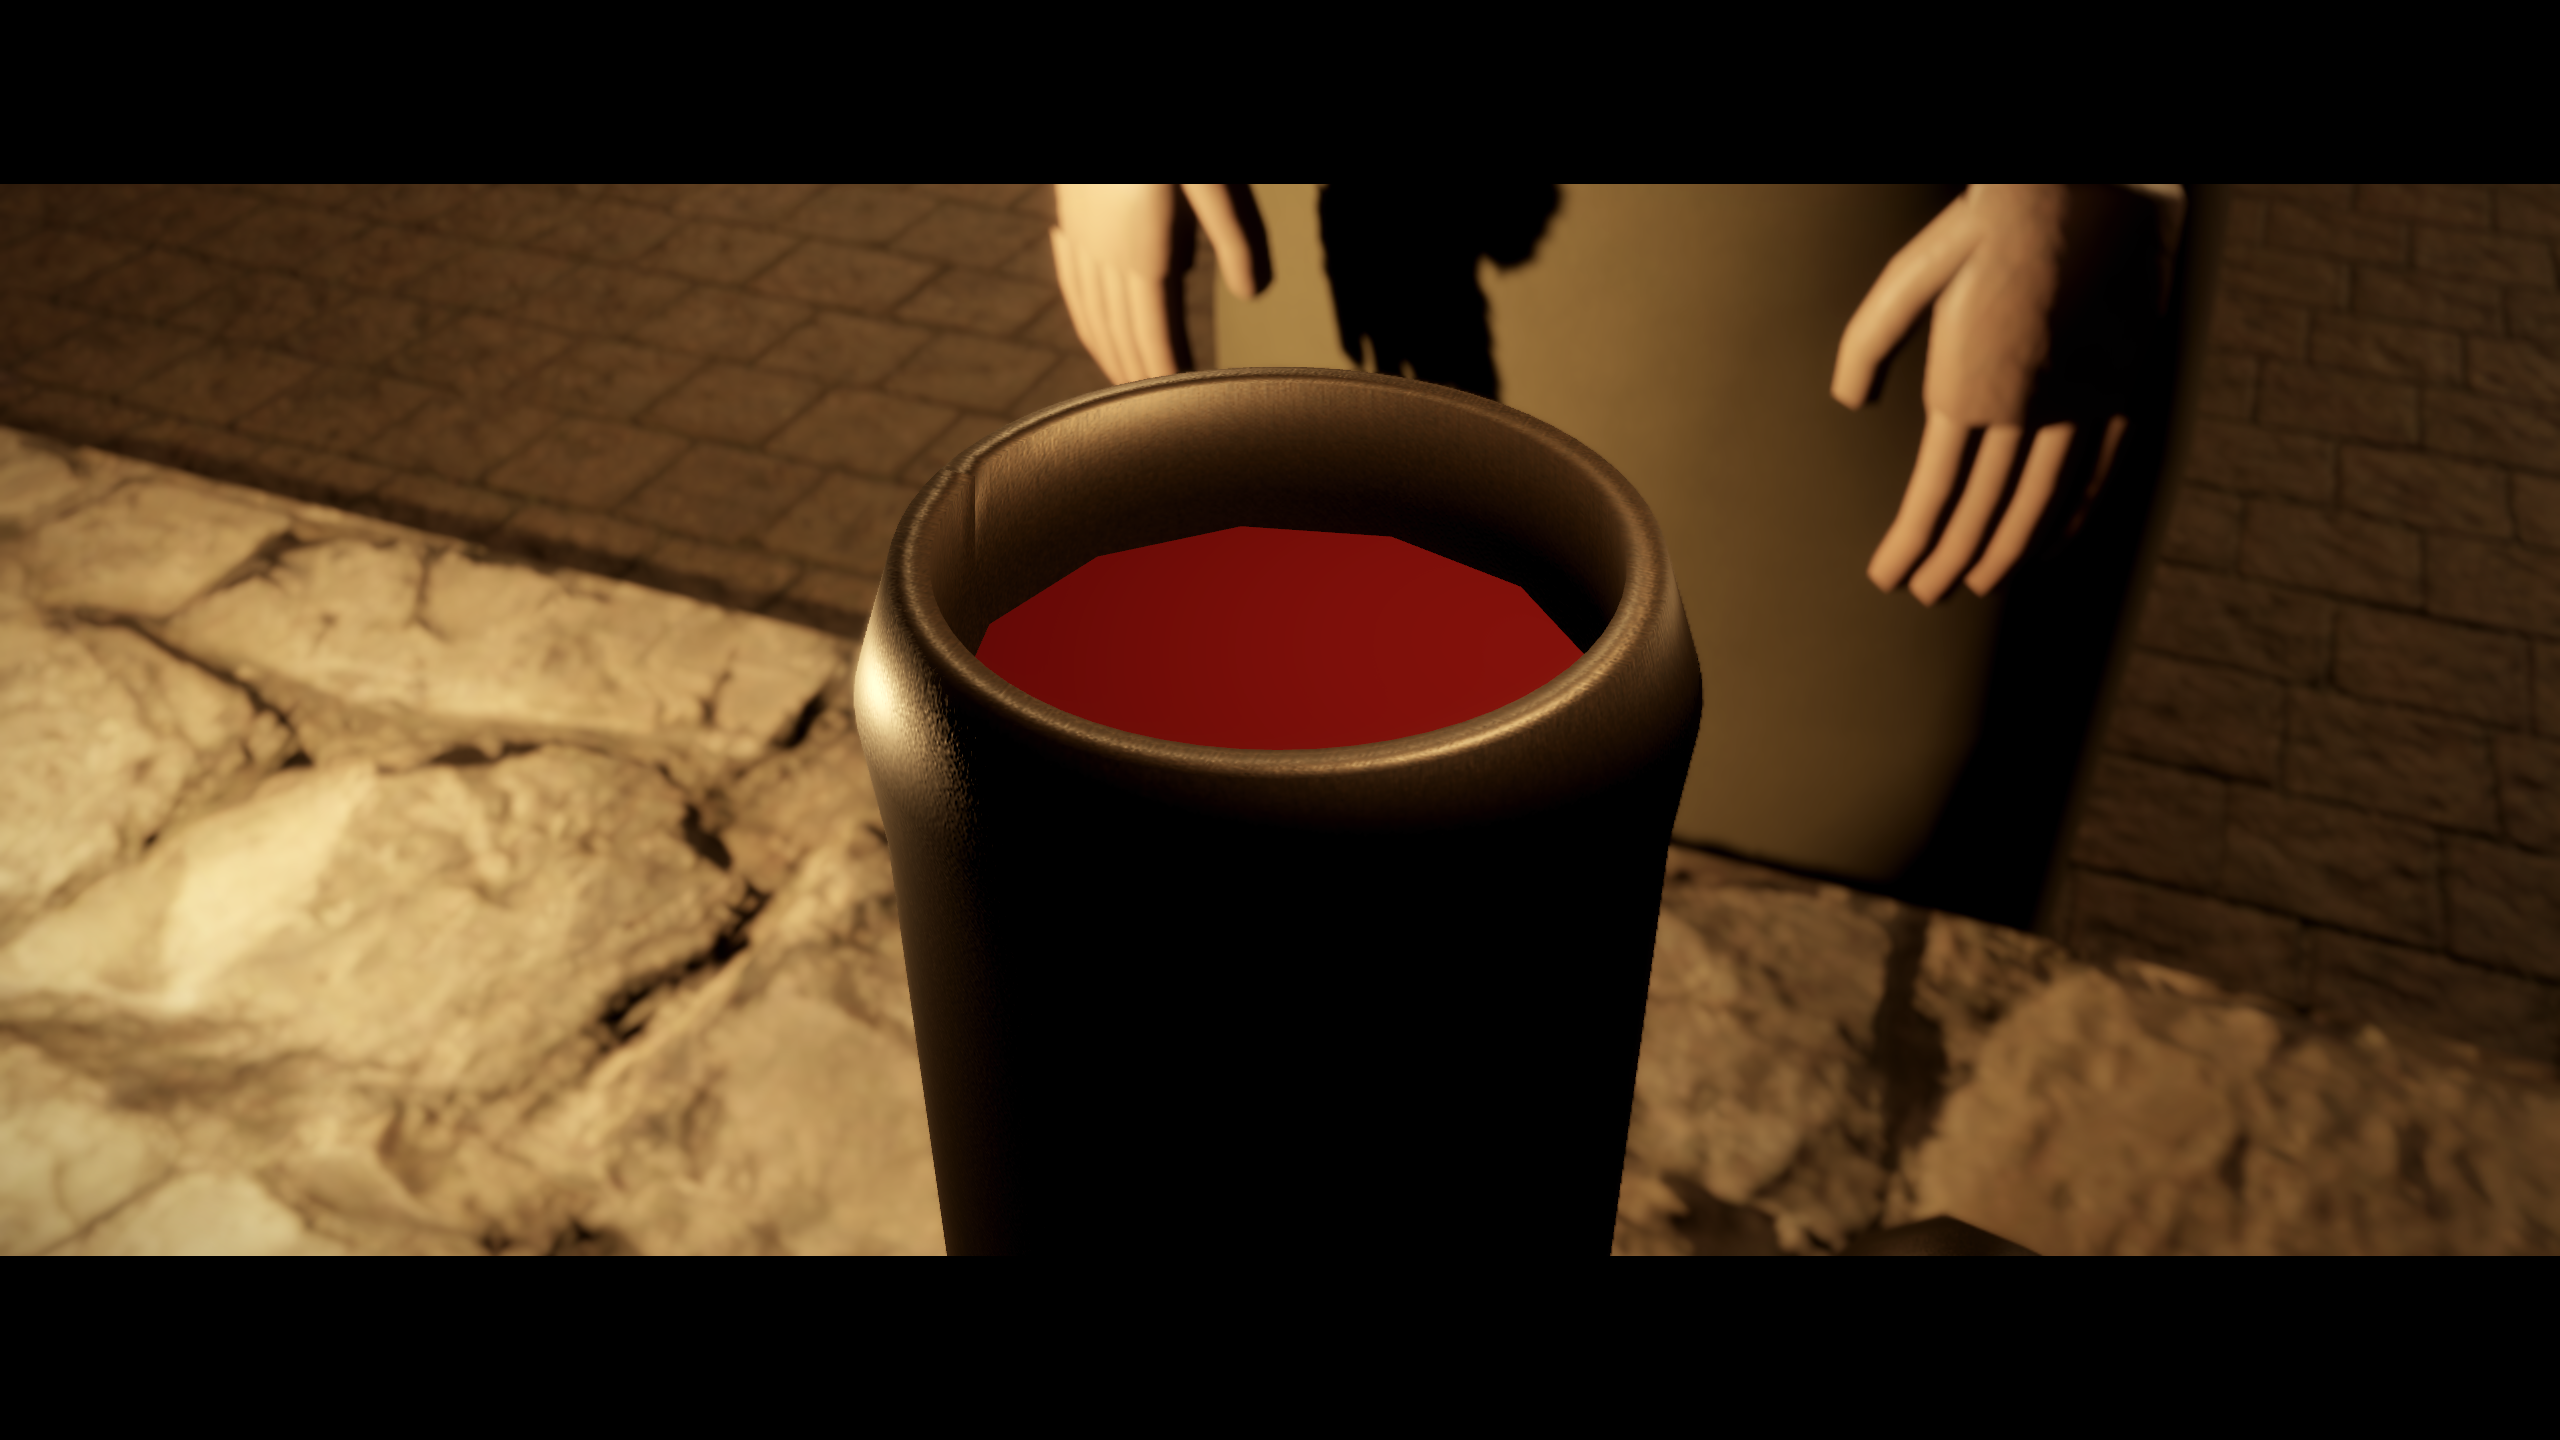
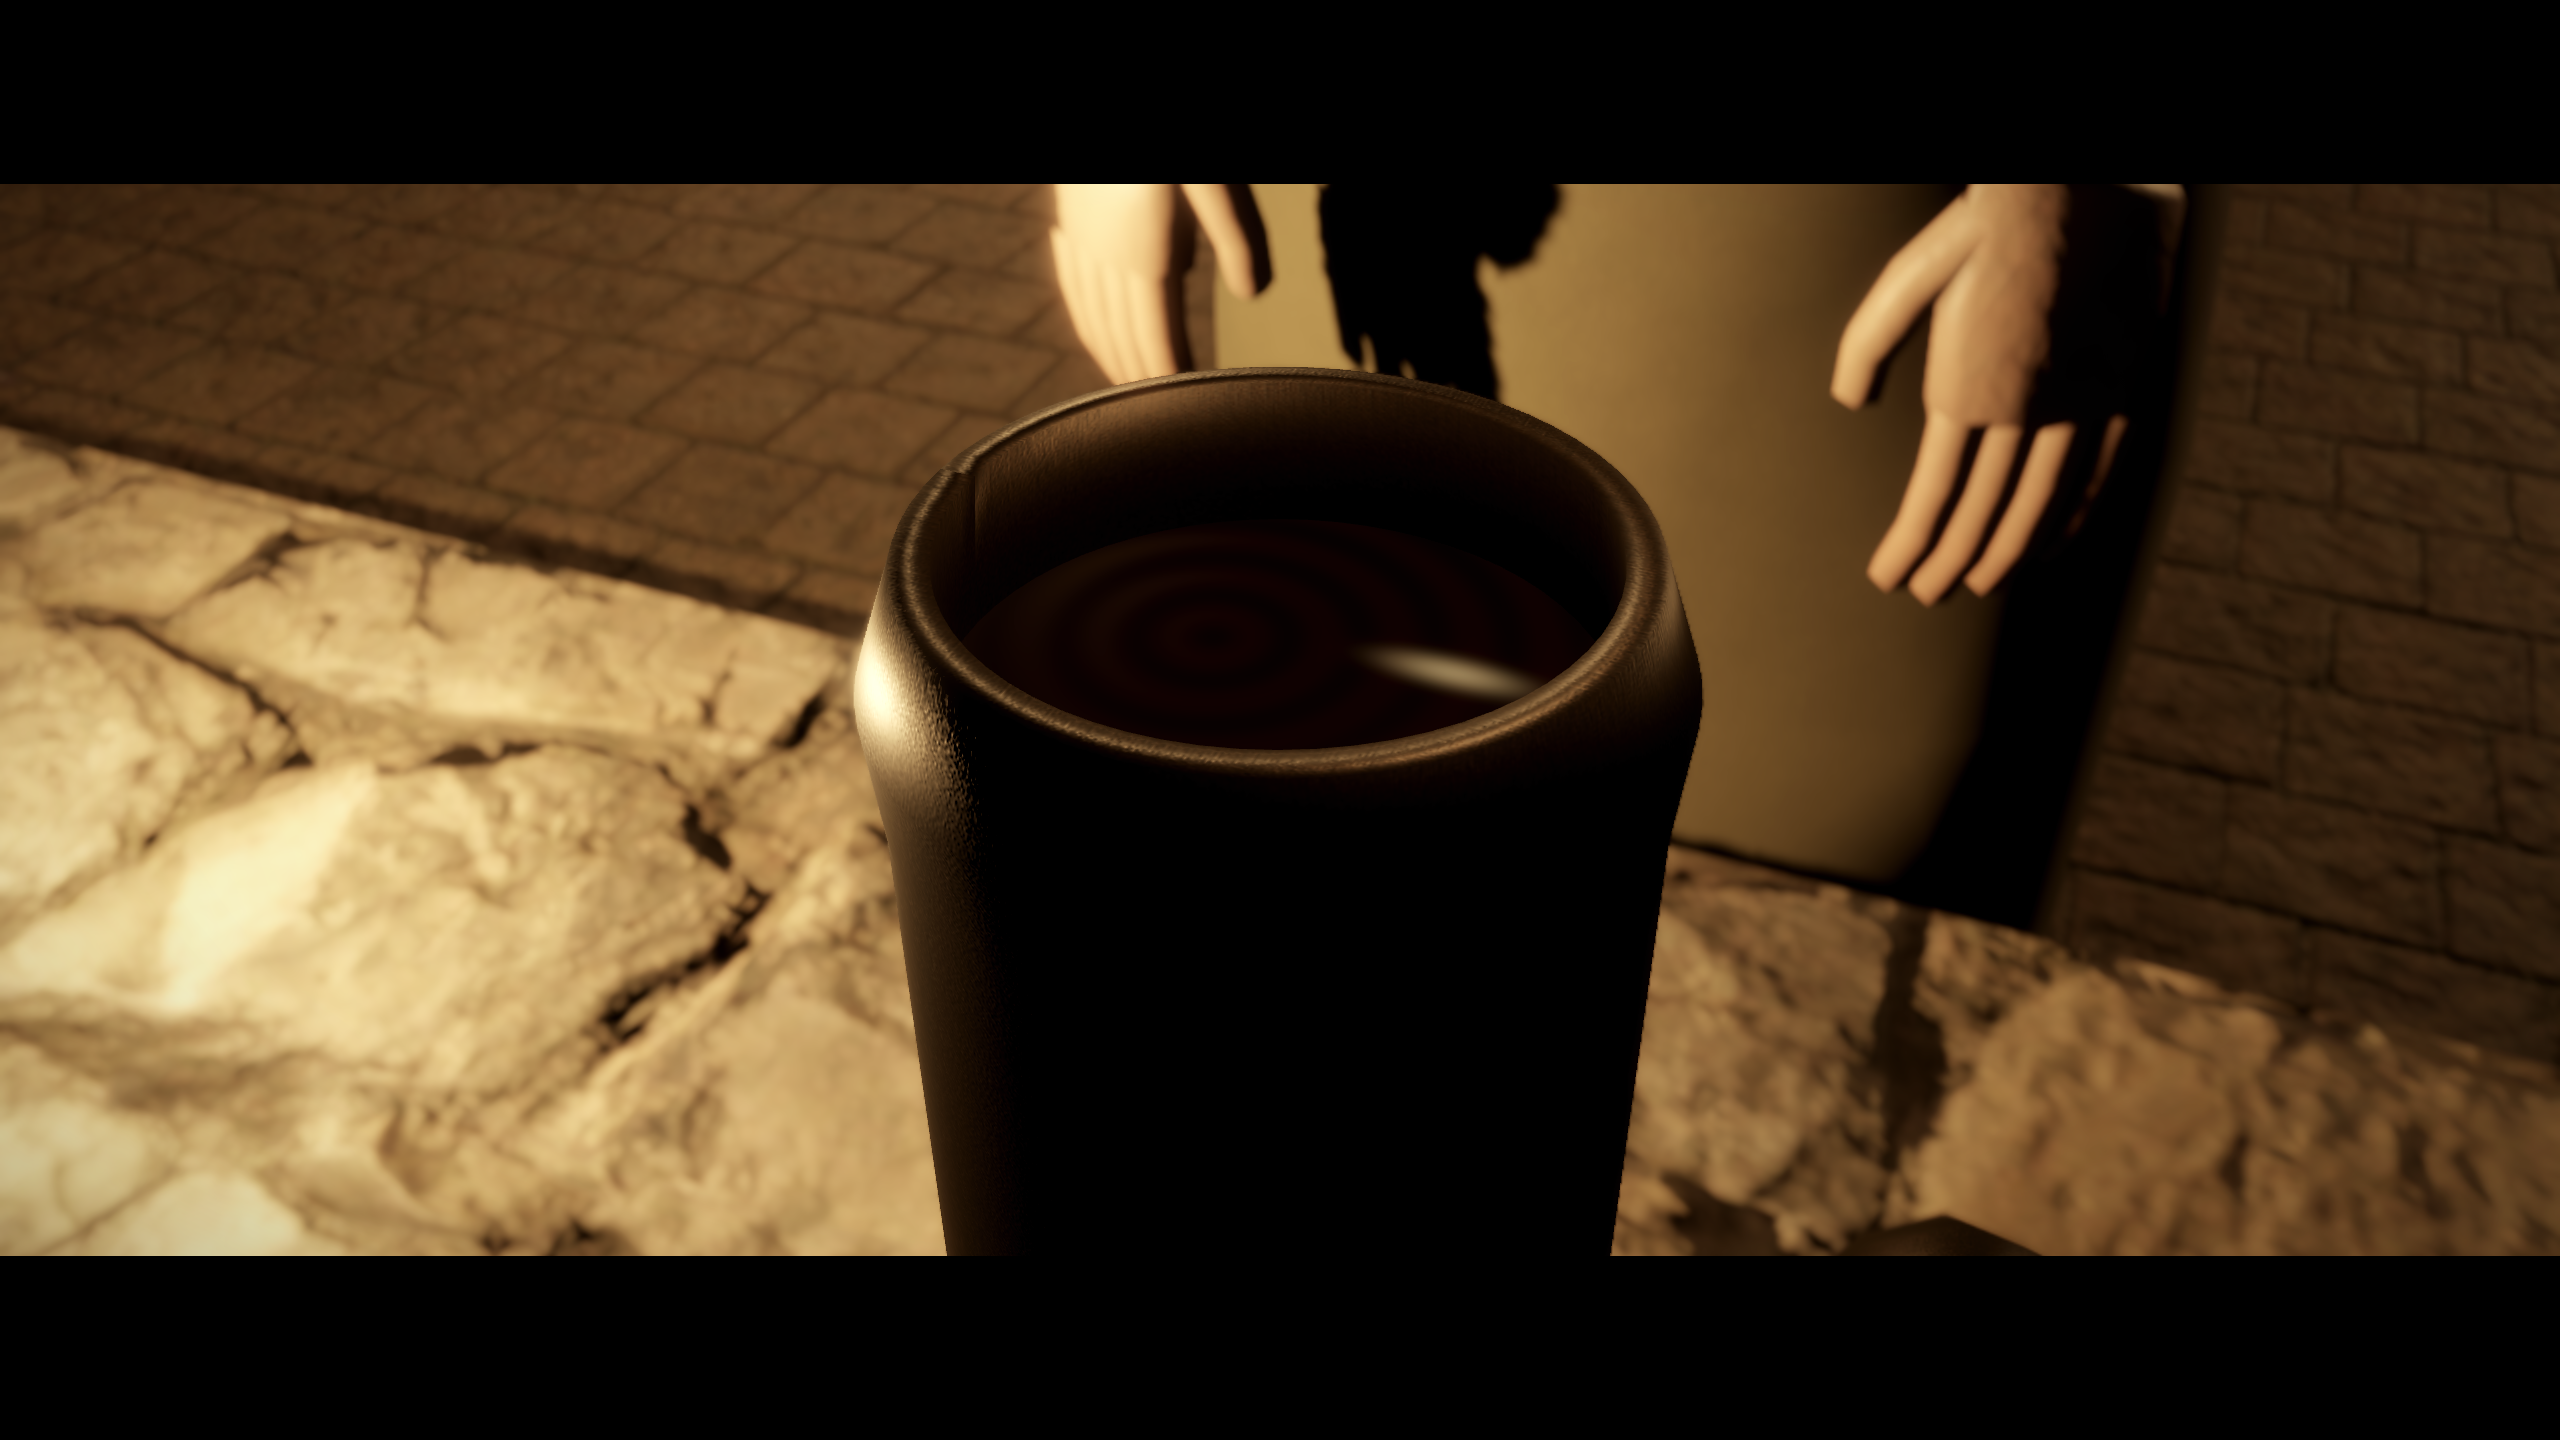
T-244 finish: the Fourth Day trench made real (textured wet earth, timber revetments, broken water)
- ftd_front: MaterialLibrary dirt for the field and the cut; braced, boarded revetments
  (some boards missing or sagging) on their own seeded RNG so the rest of the set keeps
  its framed layout; the shell-hole ponds dull and still.
- trench_water.gdshader: dark silty water, rain ripples and dull silt patches so the
  trench bottom no longer reads as a flat grey sheet of sky.
- The nine review frames re-captured (tools/cinema/review.tscn, off-screen, silent).
- docs/CINEMA_FINISH_HANDOFF.md: the handoff and its validation.

Checks: check_scripts 937/0 failed; GUT test_cinema 62/62, test_look 29/29.

diff --git a/docs/CINEMA_FINISH_HANDOFF.md b/docs/CINEMA_FINISH_HANDOFF.md
@@ -1,0 +1,30 @@
+# Cinema finishing pass, 2026-11-14
+
+Owner request: finish the scary, realistic replacements based on the existing cutscenes, improve them further, and have Claude push them.
+
+The first pass is already committed as 15c61289 and is in current master. Current finishing edits are only ftd_front.gd and trench_water.gdshader: textured wet earth, timber revetments and broken, restrained water reflections. Preserve other agents' changes and the unrelated untracked shots_npcs_map00.gd.uid.
+
+Please review these changes, improve remaining obvious visual defects if needed, render the nine shots via tools/cinema/review.tscn offscreen/silent, inspect the affected frame, run the relevant script/cinema checks, and commit and push the cinema changes to the intended remote branch. Do not force push or stage unrelated work. Update this note with actual validation and commit/push outcome. User explicitly requested Claude perform the push.
+
+Godot: tools/dl_godot/Godot_v4.7.2-stable_win64_console.exe. Render approval already given: --audio-driver Dummy --position -4000,-4000 --resolution 1280x720 --path . res://tools/cinema/review.tscn. Output docs/captures/cinema_horror/review. No visible windows or audible audio.
+
+## Outcome (Claude, 2026-11-14 evening)
+
+Reviewed the finishing diff (MaterialLibrary "dirt" earth as in ftd_rear.gd, the revetment geometry against the 2 m cut, the water shader) and fixed what the render still showed:
+- the revetments were a perfectly even fence: about 1 board in 10 is now missing, a quarter sag or lean, and they sit at slightly varied depths;
+- the revetment loop drew from the set's shared `rng`, which moved every later prop (duckboards, wire, shell holes). It now uses its own seeded RNG, so the rest of the set keeps the layout the shots were framed on;
+- the trench water still read as a flat grey sheet of sky: stronger rain ripples plus slow, dull silt patches (rougher, less specular, darker). The shell-hole ponds now use a plain dull material instead of the trench-water shader.
+
+Validation, all on the PC, headless or off-screen and silent:
+- `check_scripts.gd`: 937 scripts, 0 failed.
+- GUT `-gselect=test_cinema`: 62/62 passed. `-gselect=test_look`: 29/29 passed.
+- `tools/cinema/review.tscn` at 1280x720, `--position -4000,-4000 --audio-driver Dummy`: all nine frames OK, COMPLETE, no shader or script errors; the frames are re-captured in docs/captures/cinema_horror/review. `front.png` inspected: braced, boarded walls with gaps, duckboards, dark broken water. The other eight frames come from sets this pass didn't touch.
+- Not re-run: the `cinema_horror_flow` smoke. Its PASS (below) predates this pass, which only changes the front set's geometry and materials.
+
+Still open: a small pale quad sits on the far right parapet skyline in `front.png`. It was already in master's capture, and it isn't the shell-hole ponds (changing their material left it unchanged). It hasn't been identified yet.
+
+Commit and push: on `claude/cinema-horror` (fast-forward from 15c61289), pushed to `origin/claude/cinema-horror`, then merged into local master. Master was not pushed: it was already 20 commits ahead of origin with UPDATE 18, which is the owner's call to publish.
+
+## Earlier notes
+
+Existing evidence: 62 cinema tests, 9 grade tests, 912 script check pass. Contrary to the previous assistant summary, .smoke_logs/cinema_horror_flow.log has RESULT: PASS at line 99: all five scenes complete and skip, first-launch menu, campaign handoff to round 1, solo Kaltenbrunn all passed. Headless shutdown then reports resource leaks; do not describe that as a failed playback test. Earlier render showed the low trench shot as bare dark walls and flat gray water, motivating this finishing edit. The other shots remain real-time 3D using existing character models; do not describe them as photorealistic video.
